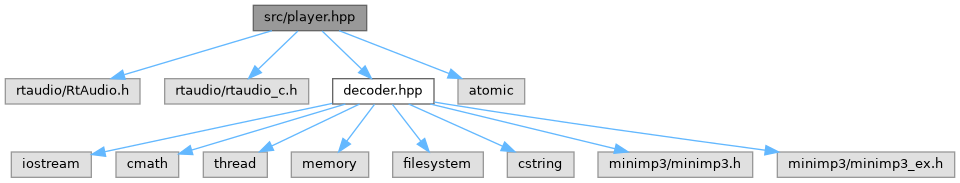
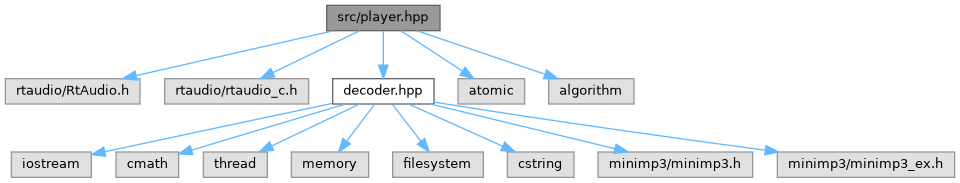
deploy: ee1bd5e4254573bf23f195d520269fd0538d9d7b

diff --git a/player_8hpp_source.html b/player_8hpp_source.html
@@ -107,49 +107,50 @@ $(document).ready(function(){initNavTree('player_8hpp_source.html',''); initResi
 <div class="line"><a id="l00012" name="l00012"></a><span class="lineno">   12</span><span class="preprocessor">#include &quot;rtaudio/rtaudio_c.h&quot;</span></div>
 <div class="line"><a id="l00013" name="l00013"></a><span class="lineno">   13</span><span class="preprocessor">#include &quot;<a class="code" href="decoder_8hpp.html">decoder.hpp</a>&quot;</span></div>
 <div class="line"><a id="l00014" name="l00014"></a><span class="lineno">   14</span><span class="preprocessor">#include &lt;atomic&gt;</span></div>
-<div class="line"><a id="l00015" name="l00015"></a><span class="lineno">   15</span> </div>
-<div class="line"><a id="l00016" name="l00016"></a><span class="lineno">   16</span><span class="preprocessor">#ifndef PLAYER_HPP</span></div>
-<div class="line"><a id="l00017" name="l00017"></a><span class="lineno">   17</span><span class="preprocessor">#define PLAYER_HPP</span></div>
-<div class="line"><a id="l00018" name="l00018"></a><span class="lineno">   18</span> </div>
-<div class="foldopen" id="foldopen00029" data-start="{" data-end="};">
-<div class="line"><a id="l00029" name="l00029"></a><span class="lineno"><a class="line" href="classPlayer.html">   29</a></span><span class="keyword">class </span><a class="code hl_class" href="classPlayer.html">Player</a> {</div>
-<div class="line"><a id="l00030" name="l00030"></a><span class="lineno">   30</span><span class="keyword">public</span>:</div>
-<div class="line"><a id="l00034" name="l00034"></a><span class="lineno">   34</span>    <span class="keyword">explicit</span> <a class="code hl_function" href="classPlayer.html#affe0cc3cb714f6deb4e62f0c0d3f1fd8">Player</a>();</div>
-<div class="line"><a id="l00035" name="l00035"></a><span class="lineno">   35</span> </div>
-<div class="line"><a id="l00040" name="l00040"></a><span class="lineno">   40</span>    <span class="keywordtype">void</span> <a class="code hl_function" href="classPlayer.html#a519dc1959e33e9d320e32e6be812b4e2">load_track</a>(<span class="keyword">const</span> track_ptr_t&amp; track);</div>
-<div class="line"><a id="l00041" name="l00041"></a><span class="lineno">   41</span> </div>
-<div class="line"><a id="l00052" name="l00052"></a><span class="lineno">   52</span>    <span class="keywordtype">void</span> <a class="code hl_function" href="classPlayer.html#aa245f322d33783fd188b30155c908321">play_track</a>();</div>
-<div class="line"><a id="l00053" name="l00053"></a><span class="lineno">   53</span>    <span class="keywordtype">void</span> raise_volume();</div>
-<div class="line"><a id="l00054" name="l00054"></a><span class="lineno">   54</span>    <span class="keywordtype">void</span> lower_volume();</div>
-<div class="line"><a id="l00055" name="l00055"></a><span class="lineno">   55</span>    <span class="keywordtype">void</span> pause_track();</div>
-<div class="line"><a id="l00056" name="l00056"></a><span class="lineno">   56</span>    <span class="keywordtype">void</span> resume_track();</div>
-<div class="line"><a id="l00057" name="l00057"></a><span class="lineno">   57</span>    [[nodiscard]] <span class="keywordtype">bool</span> is_paused() <span class="keyword">const</span>;</div>
-<div class="line"><a id="l00058" name="l00058"></a><span class="lineno">   58</span> </div>
-<div class="line"><a id="l00062" name="l00062"></a><span class="lineno">   62</span>    <span class="keywordtype">void</span> <a class="code hl_function" href="classPlayer.html#a329cba14b52751180055a0b48cf3e1b7">stop_track</a>();</div>
-<div class="line"><a id="l00063" name="l00063"></a><span class="lineno">   63</span>    <span class="keywordtype">bool</span> is_stopped() <span class="keyword">const</span>;</div>
-<div class="line"><a id="l00064" name="l00064"></a><span class="lineno">   64</span> </div>
-<div class="line"><a id="l00065" name="l00065"></a><span class="lineno">   65</span><span class="keyword">private</span>:</div>
-<div class="line"><a id="l00066" name="l00066"></a><span class="lineno">   66</span>    <span class="keyword">static</span> <span class="keywordtype">int</span> audioCallback(<span class="keywordtype">void</span> *outputBuffer, <span class="keywordtype">void</span> *, <span class="keywordtype">unsigned</span> <span class="keywordtype">int</span> nFrames,</div>
-<div class="line"><a id="l00067" name="l00067"></a><span class="lineno">   67</span>                             <span class="keywordtype">double</span>, RtAudioStreamStatus, <span class="keywordtype">void</span> *userData);</div>
-<div class="line"><a id="l00068" name="l00068"></a><span class="lineno">   68</span>    std::atomic&lt;bool&gt; stop_playback_{<span class="keyword">false</span>};</div>
-<div class="line"><a id="l00069" name="l00069"></a><span class="lineno">   69</span>    <span class="keywordtype">bool</span> paused_;</div>
-<div class="line"><a id="l00070" name="l00070"></a><span class="lineno">   70</span>    RtAudio audio_;</div>
-<div class="line"><a id="l00071" name="l00071"></a><span class="lineno">   71</span>    RtAudio::StreamParameters params_;</div>
-<div class="line"><a id="l00072" name="l00072"></a><span class="lineno">   72</span>    <span class="keywordtype">unsigned</span> <span class="keywordtype">int</span> BUFFER_SIZE = 512;</div>
-<div class="line"><a id="l00073" name="l00073"></a><span class="lineno"><a class="line" href="classPlayer.html#ad8346ce49cfc7ec7b85942017740a19d">   73</a></span>    <span class="keywordtype">unsigned</span> <span class="keywordtype">int</span> <a class="code hl_variable" href="classPlayer.html#ad8346ce49cfc7ec7b85942017740a19d">SAMPLE_RATE</a> = 44100; </div>
-<div class="line"><a id="l00074" name="l00074"></a><span class="lineno"><a class="line" href="classPlayer.html#a81c61e722d98b35ffd1ce8e51fa05d7f">   74</a></span>    <span class="keywordtype">float</span> <a class="code hl_variable" href="classPlayer.html#a81c61e722d98b35ffd1ce8e51fa05d7f">saved_volume_</a> = DEFAULT_VOLUME; </div>
-<div class="line"><a id="l00075" name="l00075"></a><span class="lineno"><a class="line" href="classPlayer.html#aa0cc47a45b17024907b4487cc43e64db">   75</a></span>    track_ptr_t <a class="code hl_variable" href="classPlayer.html#aa0cc47a45b17024907b4487cc43e64db">track_</a>; </div>
-<div class="line"><a id="l00076" name="l00076"></a><span class="lineno">   76</span>};</div>
+<div class="line"><a id="l00015" name="l00015"></a><span class="lineno">   15</span><span class="preprocessor">#include &lt;algorithm&gt;</span></div>
+<div class="line"><a id="l00016" name="l00016"></a><span class="lineno">   16</span> </div>
+<div class="line"><a id="l00017" name="l00017"></a><span class="lineno">   17</span><span class="preprocessor">#ifndef PLAYER_HPP</span></div>
+<div class="line"><a id="l00018" name="l00018"></a><span class="lineno">   18</span><span class="preprocessor">#define PLAYER_HPP</span></div>
+<div class="line"><a id="l00019" name="l00019"></a><span class="lineno">   19</span> </div>
+<div class="foldopen" id="foldopen00030" data-start="{" data-end="};">
+<div class="line"><a id="l00030" name="l00030"></a><span class="lineno"><a class="line" href="classPlayer.html">   30</a></span><span class="keyword">class </span><a class="code hl_class" href="classPlayer.html">Player</a> {</div>
+<div class="line"><a id="l00031" name="l00031"></a><span class="lineno">   31</span><span class="keyword">public</span>:</div>
+<div class="line"><a id="l00035" name="l00035"></a><span class="lineno">   35</span>    <span class="keyword">explicit</span> <a class="code hl_function" href="classPlayer.html#affe0cc3cb714f6deb4e62f0c0d3f1fd8">Player</a>();</div>
+<div class="line"><a id="l00036" name="l00036"></a><span class="lineno">   36</span> </div>
+<div class="line"><a id="l00041" name="l00041"></a><span class="lineno">   41</span>    <span class="keywordtype">void</span> <a class="code hl_function" href="classPlayer.html#a519dc1959e33e9d320e32e6be812b4e2">load_track</a>(<span class="keyword">const</span> track_ptr_t&amp; track);</div>
+<div class="line"><a id="l00042" name="l00042"></a><span class="lineno">   42</span> </div>
+<div class="line"><a id="l00053" name="l00053"></a><span class="lineno">   53</span>    <span class="keywordtype">void</span> <a class="code hl_function" href="classPlayer.html#aa245f322d33783fd188b30155c908321">play_track</a>();</div>
+<div class="line"><a id="l00054" name="l00054"></a><span class="lineno">   54</span>    <span class="keywordtype">void</span> raise_volume();</div>
+<div class="line"><a id="l00055" name="l00055"></a><span class="lineno">   55</span>    <span class="keywordtype">void</span> lower_volume();</div>
+<div class="line"><a id="l00056" name="l00056"></a><span class="lineno">   56</span>    <span class="keywordtype">void</span> pause_track();</div>
+<div class="line"><a id="l00057" name="l00057"></a><span class="lineno">   57</span>    <span class="keywordtype">void</span> resume_track();</div>
+<div class="line"><a id="l00058" name="l00058"></a><span class="lineno">   58</span>    [[nodiscard]] <span class="keywordtype">bool</span> is_paused() <span class="keyword">const</span>;</div>
+<div class="line"><a id="l00059" name="l00059"></a><span class="lineno">   59</span> </div>
+<div class="line"><a id="l00063" name="l00063"></a><span class="lineno">   63</span>    <span class="keywordtype">void</span> <a class="code hl_function" href="classPlayer.html#a329cba14b52751180055a0b48cf3e1b7">stop_track</a>();</div>
+<div class="line"><a id="l00064" name="l00064"></a><span class="lineno">   64</span>    <span class="keywordtype">bool</span> is_stopped() <span class="keyword">const</span>;</div>
+<div class="line"><a id="l00065" name="l00065"></a><span class="lineno">   65</span> </div>
+<div class="line"><a id="l00066" name="l00066"></a><span class="lineno">   66</span><span class="keyword">private</span>:</div>
+<div class="line"><a id="l00067" name="l00067"></a><span class="lineno">   67</span>    <span class="keyword">static</span> <span class="keywordtype">int</span> audioCallback(<span class="keywordtype">void</span> *outputBuffer, <span class="keywordtype">void</span> *, <span class="keywordtype">unsigned</span> <span class="keywordtype">int</span> nFrames,</div>
+<div class="line"><a id="l00068" name="l00068"></a><span class="lineno">   68</span>                             <span class="keywordtype">double</span>, RtAudioStreamStatus, <span class="keywordtype">void</span> *userData);</div>
+<div class="line"><a id="l00069" name="l00069"></a><span class="lineno">   69</span>    std::atomic&lt;bool&gt; stop_playback_{<span class="keyword">false</span>};</div>
+<div class="line"><a id="l00070" name="l00070"></a><span class="lineno">   70</span>    <span class="keywordtype">bool</span> paused_;</div>
+<div class="line"><a id="l00071" name="l00071"></a><span class="lineno">   71</span>    RtAudio audio_;</div>
+<div class="line"><a id="l00072" name="l00072"></a><span class="lineno">   72</span>    RtAudio::StreamParameters params_;</div>
+<div class="line"><a id="l00073" name="l00073"></a><span class="lineno">   73</span>    <span class="keywordtype">unsigned</span> <span class="keywordtype">int</span> BUFFER_SIZE = 512;</div>
+<div class="line"><a id="l00074" name="l00074"></a><span class="lineno"><a class="line" href="classPlayer.html#ad8346ce49cfc7ec7b85942017740a19d">   74</a></span>    <span class="keywordtype">unsigned</span> <span class="keywordtype">int</span> <a class="code hl_variable" href="classPlayer.html#ad8346ce49cfc7ec7b85942017740a19d">SAMPLE_RATE</a> = 44100; </div>
+<div class="line"><a id="l00075" name="l00075"></a><span class="lineno"><a class="line" href="classPlayer.html#a81c61e722d98b35ffd1ce8e51fa05d7f">   75</a></span>    <span class="keywordtype">float</span> <a class="code hl_variable" href="classPlayer.html#a81c61e722d98b35ffd1ce8e51fa05d7f">saved_volume_</a> = DEFAULT_VOLUME; </div>
+<div class="line"><a id="l00076" name="l00076"></a><span class="lineno"><a class="line" href="classPlayer.html#aa0cc47a45b17024907b4487cc43e64db">   76</a></span>    track_ptr_t <a class="code hl_variable" href="classPlayer.html#aa0cc47a45b17024907b4487cc43e64db">track_</a>; </div>
+<div class="line"><a id="l00077" name="l00077"></a><span class="lineno">   77</span>};</div>
 </div>
-<div class="line"><a id="l00077" name="l00077"></a><span class="lineno">   77</span> </div>
-<div class="line"><a id="l00078" name="l00078"></a><span class="lineno">   78</span><span class="preprocessor">#endif </span><span class="comment">//PLAYER_HPP</span></div>
-<div class="ttc" id="aclassPlayer_html"><div class="ttname"><a href="classPlayer.html">Player</a></div><div class="ttdoc">Manages playback of data from a Track instance.</div><div class="ttdef"><b>Definition</b> <a href="player_8hpp_source.html#l00029">player.hpp:29</a></div></div>
+<div class="line"><a id="l00078" name="l00078"></a><span class="lineno">   78</span> </div>
+<div class="line"><a id="l00079" name="l00079"></a><span class="lineno">   79</span><span class="preprocessor">#endif </span><span class="comment">//PLAYER_HPP</span></div>
+<div class="ttc" id="aclassPlayer_html"><div class="ttname"><a href="classPlayer.html">Player</a></div><div class="ttdoc">Manages playback of data from a Track instance.</div><div class="ttdef"><b>Definition</b> <a href="player_8hpp_source.html#l00030">player.hpp:30</a></div></div>
 <div class="ttc" id="aclassPlayer_html_a329cba14b52751180055a0b48cf3e1b7"><div class="ttname"><a href="classPlayer.html#a329cba14b52751180055a0b48cf3e1b7">Player::stop_track</a></div><div class="ttdeci">void stop_track()</div><div class="ttdoc">Only way to abort the execution of play_track() method from outside of Player class.</div><div class="ttdef"><b>Definition</b> <a href="player_8cpp_source.html#l00017">player.cpp:17</a></div></div>
 <div class="ttc" id="aclassPlayer_html_a519dc1959e33e9d320e32e6be812b4e2"><div class="ttname"><a href="classPlayer.html#a519dc1959e33e9d320e32e6be812b4e2">Player::load_track</a></div><div class="ttdeci">void load_track(const track_ptr_t &amp;track)</div><div class="ttdoc">Redirects local pointer to given Track instance.</div><div class="ttdef"><b>Definition</b> <a href="player_8cpp_source.html#l00046">player.cpp:46</a></div></div>
-<div class="ttc" id="aclassPlayer_html_a81c61e722d98b35ffd1ce8e51fa05d7f"><div class="ttname"><a href="classPlayer.html#a81c61e722d98b35ffd1ce8e51fa05d7f">Player::saved_volume_</a></div><div class="ttdeci">float saved_volume_</div><div class="ttdoc">Saves volume modifier when switching between tracks.</div><div class="ttdef"><b>Definition</b> <a href="player_8hpp_source.html#l00074">player.hpp:74</a></div></div>
-<div class="ttc" id="aclassPlayer_html_aa0cc47a45b17024907b4487cc43e64db"><div class="ttname"><a href="classPlayer.html#aa0cc47a45b17024907b4487cc43e64db">Player::track_</a></div><div class="ttdeci">track_ptr_t track_</div><div class="ttdoc">Current Track in playback or ready to be played.</div><div class="ttdef"><b>Definition</b> <a href="player_8hpp_source.html#l00075">player.hpp:75</a></div></div>
+<div class="ttc" id="aclassPlayer_html_a81c61e722d98b35ffd1ce8e51fa05d7f"><div class="ttname"><a href="classPlayer.html#a81c61e722d98b35ffd1ce8e51fa05d7f">Player::saved_volume_</a></div><div class="ttdeci">float saved_volume_</div><div class="ttdoc">Saves volume modifier when switching between tracks.</div><div class="ttdef"><b>Definition</b> <a href="player_8hpp_source.html#l00075">player.hpp:75</a></div></div>
+<div class="ttc" id="aclassPlayer_html_aa0cc47a45b17024907b4487cc43e64db"><div class="ttname"><a href="classPlayer.html#aa0cc47a45b17024907b4487cc43e64db">Player::track_</a></div><div class="ttdeci">track_ptr_t track_</div><div class="ttdoc">Current Track in playback or ready to be played.</div><div class="ttdef"><b>Definition</b> <a href="player_8hpp_source.html#l00076">player.hpp:76</a></div></div>
 <div class="ttc" id="aclassPlayer_html_aa245f322d33783fd188b30155c908321"><div class="ttname"><a href="classPlayer.html#aa245f322d33783fd188b30155c908321">Player::play_track</a></div><div class="ttdeci">void play_track()</div><div class="ttdoc">Starts track playback.</div><div class="ttdef"><b>Definition</b> <a href="player_8cpp_source.html#l00072">player.cpp:72</a></div></div>
-<div class="ttc" id="aclassPlayer_html_ad8346ce49cfc7ec7b85942017740a19d"><div class="ttname"><a href="classPlayer.html#ad8346ce49cfc7ec7b85942017740a19d">Player::SAMPLE_RATE</a></div><div class="ttdeci">unsigned int SAMPLE_RATE</div><div class="ttdoc">Audio sample rate in Hz.</div><div class="ttdef"><b>Definition</b> <a href="player_8hpp_source.html#l00073">player.hpp:73</a></div></div>
+<div class="ttc" id="aclassPlayer_html_ad8346ce49cfc7ec7b85942017740a19d"><div class="ttname"><a href="classPlayer.html#ad8346ce49cfc7ec7b85942017740a19d">Player::SAMPLE_RATE</a></div><div class="ttdeci">unsigned int SAMPLE_RATE</div><div class="ttdoc">Audio sample rate in Hz.</div><div class="ttdef"><b>Definition</b> <a href="player_8hpp_source.html#l00074">player.hpp:74</a></div></div>
 <div class="ttc" id="aclassPlayer_html_affe0cc3cb714f6deb4e62f0c0d3f1fd8"><div class="ttname"><a href="classPlayer.html#affe0cc3cb714f6deb4e62f0c0d3f1fd8">Player::Player</a></div><div class="ttdeci">Player()</div><div class="ttdoc">Constructs a new Player instance and initializes audio system.</div><div class="ttdef"><b>Definition</b> <a href="player_8cpp_source.html#l00006">player.cpp:6</a></div></div>
 <div class="ttc" id="adecoder_8hpp_html"><div class="ttname"><a href="decoder_8hpp.html">decoder.hpp</a></div><div class="ttdoc">Contains classes and structures for decoding MP3 files into PCM audio data.</div></div>
 </div><!-- fragment --></div><!-- contents -->

diff --git a/classPlayer.html b/classPlayer.html
@@ -172,7 +172,7 @@ Private Attributes</h2></td></tr>
 <li>Stopped - playback aborts and <a class="el" href="classPlayer.html" title="Manages playback of data from a Track instance.">Player</a> returns to the initial state </li>
 </ul>
 
-<p class="definition">Definition at line <a class="el" href="player_8hpp_source.html#l00029">29</a> of file <a class="el" href="player_8hpp_source.html">player.hpp</a>.</p>
+<p class="definition">Definition at line <a class="el" href="player_8hpp_source.html#l00030">30</a> of file <a class="el" href="player_8hpp_source.html">player.hpp</a>.</p>
 </div><h2 class="groupheader">Constructor &amp; Destructor Documentation</h2>
 <a id="affe0cc3cb714f6deb4e62f0c0d3f1fd8" name="affe0cc3cb714f6deb4e62f0c0d3f1fd8"></a>
 <h2 class="memtitle"><span class="permalink"><a href="#affe0cc3cb714f6deb4e62f0c0d3f1fd8">&#9670;&#160;</a></span>Player()</h2>
@@ -370,7 +370,7 @@ Private Attributes</h2></td></tr>
 <div class="line"><span class="lineno">   48</span>    <a class="code hl_variable" href="classPlayer.html#aa0cc47a45b17024907b4487cc43e64db">track_</a> = track;</div>
 <div class="line"><span class="lineno">   49</span>    paused_ = <span class="keyword">false</span>;</div>
 <div class="line"><span class="lineno">   50</span>}</div>
-<div class="ttc" id="aclassPlayer_html_aa0cc47a45b17024907b4487cc43e64db"><div class="ttname"><a href="classPlayer.html#aa0cc47a45b17024907b4487cc43e64db">Player::track_</a></div><div class="ttdeci">track_ptr_t track_</div><div class="ttdoc">Current Track in playback or ready to be played.</div><div class="ttdef"><b>Definition</b> <a href="player_8hpp_source.html#l00075">player.hpp:75</a></div></div>
+<div class="ttc" id="aclassPlayer_html_aa0cc47a45b17024907b4487cc43e64db"><div class="ttname"><a href="classPlayer.html#aa0cc47a45b17024907b4487cc43e64db">Player::track_</a></div><div class="ttdeci">track_ptr_t track_</div><div class="ttdoc">Current Track in playback or ready to be played.</div><div class="ttdef"><b>Definition</b> <a href="player_8hpp_source.html#l00076">player.hpp:76</a></div></div>
 </div><!-- fragment -->
 </div>
 </div>
@@ -398,7 +398,7 @@ Private Attributes</h2></td></tr>
 <div class="line"><span class="lineno">   67</span>        <a class="code hl_variable" href="classPlayer.html#a81c61e722d98b35ffd1ce8e51fa05d7f">saved_volume_</a> = audio_data.volume;</div>
 <div class="line"><span class="lineno">   68</span>    }</div>
 <div class="line"><span class="lineno">   69</span>}</div>
-<div class="ttc" id="aclassPlayer_html_a81c61e722d98b35ffd1ce8e51fa05d7f"><div class="ttname"><a href="classPlayer.html#a81c61e722d98b35ffd1ce8e51fa05d7f">Player::saved_volume_</a></div><div class="ttdeci">float saved_volume_</div><div class="ttdoc">Saves volume modifier when switching between tracks.</div><div class="ttdef"><b>Definition</b> <a href="player_8hpp_source.html#l00074">player.hpp:74</a></div></div>
+<div class="ttc" id="aclassPlayer_html_a81c61e722d98b35ffd1ce8e51fa05d7f"><div class="ttname"><a href="classPlayer.html#a81c61e722d98b35ffd1ce8e51fa05d7f">Player::saved_volume_</a></div><div class="ttdeci">float saved_volume_</div><div class="ttdoc">Saves volume modifier when switching between tracks.</div><div class="ttdef"><b>Definition</b> <a href="player_8hpp_source.html#l00075">player.hpp:75</a></div></div>
 </div><!-- fragment -->
 </div>
 </div>
@@ -491,7 +491,7 @@ First call <a class="el" href="classPlayer.html#a519dc1959e33e9d320e32e6be812b4e
 <div class="line"><span class="lineno">  115</span>        <span class="keywordflow">if</span> (audio_.isStreamOpen()) audio_.closeStream();</div>
 <div class="line"><span class="lineno">  116</span>    }</div>
 <div class="line"><span class="lineno">  117</span>}</div>
-<div class="ttc" id="aclassPlayer_html_ad8346ce49cfc7ec7b85942017740a19d"><div class="ttname"><a href="classPlayer.html#ad8346ce49cfc7ec7b85942017740a19d">Player::SAMPLE_RATE</a></div><div class="ttdeci">unsigned int SAMPLE_RATE</div><div class="ttdoc">Audio sample rate in Hz.</div><div class="ttdef"><b>Definition</b> <a href="player_8hpp_source.html#l00073">player.hpp:73</a></div></div>
+<div class="ttc" id="aclassPlayer_html_ad8346ce49cfc7ec7b85942017740a19d"><div class="ttname"><a href="classPlayer.html#ad8346ce49cfc7ec7b85942017740a19d">Player::SAMPLE_RATE</a></div><div class="ttdeci">unsigned int SAMPLE_RATE</div><div class="ttdoc">Audio sample rate in Hz.</div><div class="ttdef"><b>Definition</b> <a href="player_8hpp_source.html#l00074">player.hpp:74</a></div></div>
 <div class="ttc" id="astructAudioData_html_a9bf6bf45bec8283c4272cd588dc642ce"><div class="ttname"><a href="structAudioData.html#a9bf6bf45bec8283c4272cd588dc642ce">AudioData::current_sample</a></div><div class="ttdeci">size_t current_sample</div><div class="ttdoc">Current position during playback.</div><div class="ttdef"><b>Definition</b> <a href="decoder_8hpp_source.html#l00035">decoder.hpp:35</a></div></div>
 <div class="ttc" id="astructTrackInfo_html"><div class="ttname"><a href="structTrackInfo.html">TrackInfo</a></div><div class="ttdoc">Couples together playback and context information for a specific track.</div><div class="ttdef"><b>Definition</b> <a href="decoder_8hpp_source.html#l00055">decoder.hpp:55</a></div></div>
 </div><!-- fragment -->
@@ -593,7 +593,7 @@ First call <a class="el" href="classPlayer.html#a519dc1959e33e9d320e32e6be812b4e
 </table>
 </div><div class="memdoc">
 
-<p class="definition">Definition at line <a class="el" href="player_8hpp_source.html#l00070">70</a> of file <a class="el" href="player_8hpp_source.html">player.hpp</a>.</p>
+<p class="definition">Definition at line <a class="el" href="player_8hpp_source.html#l00071">71</a> of file <a class="el" href="player_8hpp_source.html">player.hpp</a>.</p>
 
 </div>
 </div>
@@ -617,7 +617,7 @@ First call <a class="el" href="classPlayer.html#a519dc1959e33e9d320e32e6be812b4e
 </table>
 </div><div class="memdoc">
 
-<p class="definition">Definition at line <a class="el" href="player_8hpp_source.html#l00072">72</a> of file <a class="el" href="player_8hpp_source.html">player.hpp</a>.</p>
+<p class="definition">Definition at line <a class="el" href="player_8hpp_source.html#l00073">73</a> of file <a class="el" href="player_8hpp_source.html">player.hpp</a>.</p>
 
 </div>
 </div>
@@ -641,7 +641,7 @@ First call <a class="el" href="classPlayer.html#a519dc1959e33e9d320e32e6be812b4e
 </table>
 </div><div class="memdoc">
 
-<p class="definition">Definition at line <a class="el" href="player_8hpp_source.html#l00071">71</a> of file <a class="el" href="player_8hpp_source.html">player.hpp</a>.</p>
+<p class="definition">Definition at line <a class="el" href="player_8hpp_source.html#l00072">72</a> of file <a class="el" href="player_8hpp_source.html">player.hpp</a>.</p>
 
 </div>
 </div>
@@ -665,7 +665,7 @@ First call <a class="el" href="classPlayer.html#a519dc1959e33e9d320e32e6be812b4e
 </table>
 </div><div class="memdoc">
 
-<p class="definition">Definition at line <a class="el" href="player_8hpp_source.html#l00069">69</a> of file <a class="el" href="player_8hpp_source.html">player.hpp</a>.</p>
+<p class="definition">Definition at line <a class="el" href="player_8hpp_source.html#l00070">70</a> of file <a class="el" href="player_8hpp_source.html">player.hpp</a>.</p>
 
 </div>
 </div>
@@ -691,7 +691,7 @@ First call <a class="el" href="classPlayer.html#a519dc1959e33e9d320e32e6be812b4e
 
 <p>Audio sample rate in Hz. </p>
 
-<p class="definition">Definition at line <a class="el" href="player_8hpp_source.html#l00073">73</a> of file <a class="el" href="player_8hpp_source.html">player.hpp</a>.</p>
+<p class="definition">Definition at line <a class="el" href="player_8hpp_source.html#l00074">74</a> of file <a class="el" href="player_8hpp_source.html">player.hpp</a>.</p>
 
 </div>
 </div>
@@ -717,7 +717,7 @@ First call <a class="el" href="classPlayer.html#a519dc1959e33e9d320e32e6be812b4e
 
 <p>Saves volume modifier when switching between tracks. </p>
 
-<p class="definition">Definition at line <a class="el" href="player_8hpp_source.html#l00074">74</a> of file <a class="el" href="player_8hpp_source.html">player.hpp</a>.</p>
+<p class="definition">Definition at line <a class="el" href="player_8hpp_source.html#l00075">75</a> of file <a class="el" href="player_8hpp_source.html">player.hpp</a>.</p>
 
 </div>
 </div>
@@ -741,8 +741,8 @@ First call <a class="el" href="classPlayer.html#a519dc1959e33e9d320e32e6be812b4e
 </table>
 </div><div class="memdoc">
 
-<p class="definition">Definition at line <a class="el" href="player_8hpp_source.html#l00068">68</a> of file <a class="el" href="player_8hpp_source.html">player.hpp</a>.</p>
-<div class="fragment"><div class="line"><span class="lineno">   68</span>{<span class="keyword">false</span>};</div>
+<p class="definition">Definition at line <a class="el" href="player_8hpp_source.html#l00069">69</a> of file <a class="el" href="player_8hpp_source.html">player.hpp</a>.</p>
+<div class="fragment"><div class="line"><span class="lineno">   69</span>{<span class="keyword">false</span>};</div>
 </div><!-- fragment -->
 </div>
 </div>
@@ -768,7 +768,7 @@ First call <a class="el" href="classPlayer.html#a519dc1959e33e9d320e32e6be812b4e
 
 <p>Current Track in playback or ready to be played. </p>
 
-<p class="definition">Definition at line <a class="el" href="player_8hpp_source.html#l00075">75</a> of file <a class="el" href="player_8hpp_source.html">player.hpp</a>.</p>
+<p class="definition">Definition at line <a class="el" href="player_8hpp_source.html#l00076">76</a> of file <a class="el" href="player_8hpp_source.html">player.hpp</a>.</p>
 
 </div>
 </div>

diff --git a/ui__controller_8hpp.html b/ui__controller_8hpp.html
@@ -118,51 +118,53 @@ Include dependency graph for ui_controller.hpp:</div>
 <div class="dyncontent">
 <div class="center"><img src="ui__controller_8hpp__incl.png" border="0" usemap="#asrc_2ui__controller_8hpp" alt=""/></div>
 <map name="asrc_2ui__controller_8hpp" id="asrc_2ui__controller_8hpp">
-<area shape="rect" title="Defines class and constants regarding user interface core logic." alt="" coords="294,5,447,31"/>
-<area shape="rect" href="decoder_8hpp.html" title="Contains classes and structures for decoding MP3 files into PCM audio data." alt="" coords="505,152,607,177"/>
-<area shape="poly" title=" " alt="" coords="387,29,532,141,529,145,384,33"/>
-<area shape="rect" title=" " alt="" coords="123,225,187,251"/>
-<area shape="poly" title=" " alt="" coords="294,31,236,45,176,69,147,85,120,104,97,127,78,153,75,171,83,188,100,203,120,217,117,221,96,207,79,191,70,172,74,151,93,123,117,100,144,80,173,64,235,40,293,26"/>
-<area shape="rect" title=" " alt="" coords="5,225,96,251"/>
-<area shape="poly" title=" " alt="" coords="294,25,251,30,204,41,158,57,116,81,89,109,72,144,61,180,55,212,50,211,56,179,67,142,85,106,113,77,156,52,203,36,250,25,294,19"/>
-<area shape="rect" href="player_8hpp.html" title=" " alt="" coords="653,79,744,104"/>
-<area shape="poly" title=" " alt="" coords="424,28,640,75,639,80,423,33"/>
-<area shape="rect" href="ui__renderer_8hpp.html" title="Defines class handling UI window rendering specifics." alt="" coords="211,79,333,104"/>
-<area shape="poly" title=" " alt="" coords="356,33,301,73,298,68,353,29"/>
-<area shape="rect" title=" " alt="" coords="310,152,394,177"/>
-<area shape="poly" title=" " alt="" coords="372,31,358,139,353,138,366,31"/>
-<area shape="rect" title=" " alt="" coords="418,152,481,177"/>
-<area shape="poly" title=" " alt="" coords="379,30,439,139,434,141,375,32"/>
-<area shape="rect" title=" " alt="" coords="516,225,596,251"/>
-<area shape="poly" title=" " alt="" coords="559,178,559,212,553,212,553,178"/>
-<area shape="rect" title=" " alt="" coords="621,225,683,251"/>
-<area shape="poly" title=" " alt="" coords="573,175,627,215,624,219,570,180"/>
-<area shape="poly" title=" " alt="" coords="505,178,492,180,346,202,201,228,200,228,199,223,199,223,345,197,492,175,505,172"/>
-<area shape="rect" title=" " alt="" coords="212,225,289,251"/>
-<area shape="poly" title=" " alt="" coords="508,180,303,227,302,222,506,175"/>
-<area shape="poly" title=" " alt="" coords="505,178,492,180,302,204,111,228,110,228,109,223,110,223,301,198,492,175,505,173"/>
-<area shape="rect" title=" " alt="" coords="708,225,775,251"/>
-<area shape="poly" title=" " alt="" coords="587,175,699,218,698,223,585,180"/>
-<area shape="rect" title=" " alt="" coords="799,225,953,251"/>
-<area shape="poly" title=" " alt="" coords="607,175,812,220,811,225,606,180"/>
-<area shape="rect" title=" " alt="" coords="314,225,491,251"/>
-<area shape="poly" title=" " alt="" coords="532,180,441,222,439,217,530,175"/>
-<area shape="poly" title=" " alt="" coords="677,106,593,148,590,143,675,102"/>
-<area shape="rect" title=" " alt="" coords="631,152,766,177"/>
-<area shape="poly" title=" " alt="" coords="701,104,701,138,696,138,696,104"/>
-<area shape="rect" title=" " alt="" coords="791,152,935,177"/>
-<area shape="poly" title=" " alt="" coords="726,102,825,144,822,149,724,106"/>
-<area shape="rect" title=" " alt="" coords="959,152,1025,177"/>
-<area shape="poly" title=" " alt="" coords="745,101,946,149,945,154,744,106"/>
-<area shape="poly" title=" " alt="" coords="318,101,498,146,496,151,317,107"/>
-<area shape="poly" title=" " alt="" coords="273,105,257,212,252,211,268,104"/>
-<area shape="poly" title=" " alt="" coords="211,99,177,105,141,116,107,131,78,154,68,167,61,182,55,212,49,211,56,180,64,164,74,150,104,127,139,111,176,100,210,94"/>
-<area shape="poly" title=" " alt="" coords="287,102,331,141,327,145,283,106"/>
-<area shape="rect" title=" " alt="" coords="88,152,147,177"/>
-<area shape="poly" title=" " alt="" coords="248,106,156,149,154,144,246,102"/>
-<area shape="rect" title=" " alt="" coords="171,152,234,177"/>
-<area shape="poly" title=" " alt="" coords="262,106,225,144,221,140,259,102"/>
-<area shape="poly" title=" " alt="" coords="301,102,409,144,407,149,300,106"/>
+<area shape="rect" title="Defines class and constants regarding user interface core logic." alt="" coords="753,5,906,31"/>
+<area shape="rect" href="decoder_8hpp.html" title="Contains classes and structures for decoding MP3 files into PCM audio data." alt="" coords="552,152,653,177"/>
+<area shape="poly" title=" " alt="" coords="813,33,634,147,631,142,810,29"/>
+<area shape="rect" title=" " alt="" coords="12,225,76,251"/>
+<area shape="poly" title=" " alt="" coords="753,22,572,27,461,35,347,46,238,63,141,86,99,100,64,116,35,134,14,154,9,167,10,182,27,213,22,216,5,184,3,167,10,150,32,130,61,111,97,95,140,81,237,58,347,41,461,29,571,22,753,17"/>
+<area shape="rect" title=" " alt="" coords="881,225,972,251"/>
+<area shape="poly" title=" " alt="" coords="907,26,966,40,1030,64,1061,80,1089,100,1115,123,1136,151,1143,172,1138,190,1124,204,1102,215,1045,229,986,237,985,231,1044,224,1100,210,1121,199,1134,187,1138,172,1131,153,1111,127,1086,104,1058,85,1028,69,965,45,906,31"/>
+<area shape="rect" href="player_8hpp.html" title=" " alt="" coords="347,79,437,104"/>
+<area shape="poly" title=" " alt="" coords="760,33,452,83,451,78,759,28"/>
+<area shape="rect" href="ui__renderer_8hpp.html" title="Defines class handling UI window rendering specifics." alt="" coords="768,79,891,104"/>
+<area shape="poly" title=" " alt="" coords="832,31,832,65,827,65,827,31"/>
+<area shape="rect" title=" " alt="" coords="950,152,1034,177"/>
+<area shape="poly" title=" " alt="" coords="846,29,905,77,972,140,968,144,901,81,843,33"/>
+<area shape="rect" title=" " alt="" coords="1058,152,1121,177"/>
+<area shape="poly" title=" " alt="" coords="852,29,1058,143,1056,148,849,33"/>
+<area shape="rect" title=" " alt="" coords="676,225,756,251"/>
+<area shape="poly" title=" " alt="" coords="622,175,688,216,685,220,620,180"/>
+<area shape="rect" title=" " alt="" coords="117,225,179,251"/>
+<area shape="poly" title=" " alt="" coords="552,178,540,180,369,202,292,211,193,228,193,223,291,206,368,196,540,175,551,173"/>
+<area shape="poly" title=" " alt="" coords="552,178,540,180,418,195,322,204,227,212,104,228,90,230,89,225,104,223,226,207,322,198,417,190,540,175,551,173"/>
+<area shape="rect" title=" " alt="" coords="780,225,857,251"/>
+<area shape="poly" title=" " alt="" coords="638,175,772,218,770,223,637,180"/>
+<area shape="poly" title=" " alt="" coords="654,175,869,221,867,226,653,180"/>
+<area shape="rect" title=" " alt="" coords="204,225,271,251"/>
+<area shape="poly" title=" " alt="" coords="552,178,285,228,284,223,551,173"/>
+<area shape="rect" title=" " alt="" coords="295,225,449,251"/>
+<area shape="poly" title=" " alt="" coords="566,180,423,224,421,219,565,175"/>
+<area shape="rect" title=" " alt="" coords="474,225,651,251"/>
+<area shape="poly" title=" " alt="" coords="598,179,578,215,574,212,594,176"/>
+<area shape="poly" title=" " alt="" coords="427,101,557,145,555,150,425,107"/>
+<area shape="rect" title=" " alt="" coords="393,152,527,177"/>
+<area shape="poly" title=" " alt="" coords="405,102,441,140,438,144,401,106"/>
+<area shape="rect" title=" " alt="" coords="24,152,168,177"/>
+<area shape="poly" title=" " alt="" coords="347,106,157,151,156,146,346,101"/>
+<area shape="rect" title=" " alt="" coords="192,152,259,177"/>
+<area shape="poly" title=" " alt="" coords="366,106,266,149,264,144,364,102"/>
+<area shape="rect" title=" " alt="" coords="283,152,368,177"/>
+<area shape="poly" title=" " alt="" coords="383,106,348,144,344,140,379,103"/>
+<area shape="poly" title=" " alt="" coords="794,107,653,150,652,145,792,101"/>
+<area shape="poly" title=" " alt="" coords="827,105,813,152,812,183,816,212,811,212,807,183,808,152,822,103"/>
+<area shape="poly" title=" " alt="" coords="833,104,840,138,857,176,876,197,897,215,894,219,872,201,853,179,835,140,828,105"/>
+<area shape="poly" title=" " alt="" coords="857,102,954,144,952,149,855,106"/>
+<area shape="rect" title=" " alt="" coords="867,152,925,177"/>
+<area shape="poly" title=" " alt="" coords="842,103,878,140,874,144,838,106"/>
+<area shape="rect" title=" " alt="" coords="678,152,741,177"/>
+<area shape="poly" title=" " alt="" coords="812,106,742,147,740,142,809,102"/>
+<area shape="poly" title=" " alt="" coords="872,101,1046,149,1044,154,871,107"/>
 </map>
 </div>
 </div><div class="textblock"><div class="dynheader">

diff --git a/player_8cpp_source.html b/player_8cpp_source.html
@@ -248,10 +248,10 @@ $(document).ready(function(){initNavTree('player_8cpp_source.html',''); initResi
 <div class="line"><a id="l00139" name="l00139"></a><span class="lineno">  139</span>}</div>
 <div class="ttc" id="aclassPlayer_html_a329cba14b52751180055a0b48cf3e1b7"><div class="ttname"><a href="classPlayer.html#a329cba14b52751180055a0b48cf3e1b7">Player::stop_track</a></div><div class="ttdeci">void stop_track()</div><div class="ttdoc">Only way to abort the execution of play_track() method from outside of Player class.</div><div class="ttdef"><b>Definition</b> <a href="player_8cpp_source.html#l00017">player.cpp:17</a></div></div>
 <div class="ttc" id="aclassPlayer_html_a519dc1959e33e9d320e32e6be812b4e2"><div class="ttname"><a href="classPlayer.html#a519dc1959e33e9d320e32e6be812b4e2">Player::load_track</a></div><div class="ttdeci">void load_track(const track_ptr_t &amp;track)</div><div class="ttdoc">Redirects local pointer to given Track instance.</div><div class="ttdef"><b>Definition</b> <a href="player_8cpp_source.html#l00046">player.cpp:46</a></div></div>
-<div class="ttc" id="aclassPlayer_html_a81c61e722d98b35ffd1ce8e51fa05d7f"><div class="ttname"><a href="classPlayer.html#a81c61e722d98b35ffd1ce8e51fa05d7f">Player::saved_volume_</a></div><div class="ttdeci">float saved_volume_</div><div class="ttdoc">Saves volume modifier when switching between tracks.</div><div class="ttdef"><b>Definition</b> <a href="player_8hpp_source.html#l00074">player.hpp:74</a></div></div>
-<div class="ttc" id="aclassPlayer_html_aa0cc47a45b17024907b4487cc43e64db"><div class="ttname"><a href="classPlayer.html#aa0cc47a45b17024907b4487cc43e64db">Player::track_</a></div><div class="ttdeci">track_ptr_t track_</div><div class="ttdoc">Current Track in playback or ready to be played.</div><div class="ttdef"><b>Definition</b> <a href="player_8hpp_source.html#l00075">player.hpp:75</a></div></div>
+<div class="ttc" id="aclassPlayer_html_a81c61e722d98b35ffd1ce8e51fa05d7f"><div class="ttname"><a href="classPlayer.html#a81c61e722d98b35ffd1ce8e51fa05d7f">Player::saved_volume_</a></div><div class="ttdeci">float saved_volume_</div><div class="ttdoc">Saves volume modifier when switching between tracks.</div><div class="ttdef"><b>Definition</b> <a href="player_8hpp_source.html#l00075">player.hpp:75</a></div></div>
+<div class="ttc" id="aclassPlayer_html_aa0cc47a45b17024907b4487cc43e64db"><div class="ttname"><a href="classPlayer.html#aa0cc47a45b17024907b4487cc43e64db">Player::track_</a></div><div class="ttdeci">track_ptr_t track_</div><div class="ttdoc">Current Track in playback or ready to be played.</div><div class="ttdef"><b>Definition</b> <a href="player_8hpp_source.html#l00076">player.hpp:76</a></div></div>
 <div class="ttc" id="aclassPlayer_html_aa245f322d33783fd188b30155c908321"><div class="ttname"><a href="classPlayer.html#aa245f322d33783fd188b30155c908321">Player::play_track</a></div><div class="ttdeci">void play_track()</div><div class="ttdoc">Starts track playback.</div><div class="ttdef"><b>Definition</b> <a href="player_8cpp_source.html#l00072">player.cpp:72</a></div></div>
-<div class="ttc" id="aclassPlayer_html_ad8346ce49cfc7ec7b85942017740a19d"><div class="ttname"><a href="classPlayer.html#ad8346ce49cfc7ec7b85942017740a19d">Player::SAMPLE_RATE</a></div><div class="ttdeci">unsigned int SAMPLE_RATE</div><div class="ttdoc">Audio sample rate in Hz.</div><div class="ttdef"><b>Definition</b> <a href="player_8hpp_source.html#l00073">player.hpp:73</a></div></div>
+<div class="ttc" id="aclassPlayer_html_ad8346ce49cfc7ec7b85942017740a19d"><div class="ttname"><a href="classPlayer.html#ad8346ce49cfc7ec7b85942017740a19d">Player::SAMPLE_RATE</a></div><div class="ttdeci">unsigned int SAMPLE_RATE</div><div class="ttdoc">Audio sample rate in Hz.</div><div class="ttdef"><b>Definition</b> <a href="player_8hpp_source.html#l00074">player.hpp:74</a></div></div>
 <div class="ttc" id="aclassPlayer_html_affe0cc3cb714f6deb4e62f0c0d3f1fd8"><div class="ttname"><a href="classPlayer.html#affe0cc3cb714f6deb4e62f0c0d3f1fd8">Player::Player</a></div><div class="ttdeci">Player()</div><div class="ttdoc">Constructs a new Player instance and initializes audio system.</div><div class="ttdef"><b>Definition</b> <a href="player_8cpp_source.html#l00006">player.cpp:6</a></div></div>
 <div class="ttc" id="aplayer_8hpp_html"><div class="ttname"><a href="player_8hpp.html">player.hpp</a></div></div>
 <div class="ttc" id="astructAudioData_html"><div class="ttname"><a href="structAudioData.html">AudioData</a></div><div class="ttdoc">Contains PCM audio samples and playback-related data.</div><div class="ttdef"><b>Definition</b> <a href="decoder_8hpp_source.html#l00032">decoder.hpp:32</a></div></div>

diff --git a/ui__controller_8hpp_source.html b/ui__controller_8hpp_source.html
@@ -154,7 +154,7 @@ $(document).ready(function(){initNavTree('ui__controller_8hpp_source.html',''); 
 </div>
 <div class="line"><a id="l00084" name="l00084"></a><span class="lineno">   84</span><span class="preprocessor">#endif </span><span class="comment">//UICONTROLLER_HPP</span></div>
 <div class="ttc" id="aclassDecoder_html"><div class="ttname"><a href="classDecoder.html">Decoder</a></div><div class="ttdoc">Transforms valid file into PCM data and all necessary parameters for audio playback.</div><div class="ttdef"><b>Definition</b> <a href="decoder_8hpp_source.html#l00068">decoder.hpp:68</a></div></div>
-<div class="ttc" id="aclassPlayer_html"><div class="ttname"><a href="classPlayer.html">Player</a></div><div class="ttdoc">Manages playback of data from a Track instance.</div><div class="ttdef"><b>Definition</b> <a href="player_8hpp_source.html#l00029">player.hpp:29</a></div></div>
+<div class="ttc" id="aclassPlayer_html"><div class="ttname"><a href="classPlayer.html">Player</a></div><div class="ttdoc">Manages playback of data from a Track instance.</div><div class="ttdef"><b>Definition</b> <a href="player_8hpp_source.html#l00030">player.hpp:30</a></div></div>
 <div class="ttc" id="aclassUiController_html"><div class="ttname"><a href="classUiController.html">UiController</a></div><div class="ttdoc">Takes care of user input handling and interaction between program components.</div><div class="ttdef"><b>Definition</b> <a href="ui__controller_8hpp_source.html#l00044">ui_controller.hpp:44</a></div></div>
 <div class="ttc" id="aclassUiController_html_a04c3a9d240f8ae78f2a36cc03d72dc3e"><div class="ttname"><a href="classUiController.html#a04c3a9d240f8ae78f2a36cc03d72dc3e">UiController::dec_</a></div><div class="ttdeci">Decoder dec_</div><div class="ttdoc">Decoder instance for creating Track objects.</div><div class="ttdef"><b>Definition</b> <a href="ui__controller_8hpp_source.html#l00073">ui_controller.hpp:73</a></div></div>
 <div class="ttc" id="aclassUiController_html_a06c688233d464fc707a4e237107c209d"><div class="ttname"><a href="classUiController.html#a06c688233d464fc707a4e237107c209d">UiController::ui_</a></div><div class="ttdeci">UiRenderer ui_</div><div class="ttdoc">Helper renderer instance that separates concern for ncurses rendering.</div><div class="ttdef"><b>Definition</b> <a href="ui__controller_8hpp_source.html#l00075">ui_controller.hpp:75</a></div></div>

diff --git a/player_8hpp.html b/player_8hpp.html
@@ -105,20 +105,23 @@ $(document).ready(function(){initNavTree('player_8hpp.html',''); initResizable()
 <code>#include &quot;rtaudio/rtaudio_c.h&quot;</code><br />
 <code>#include &quot;<a class="el" href="decoder_8hpp_source.html">decoder.hpp</a>&quot;</code><br />
 <code>#include &lt;atomic&gt;</code><br />
+<code>#include &lt;algorithm&gt;</code><br />
 </div><div class="textblock"><div class="dynheader">
 Include dependency graph for player.hpp:</div>
 <div class="dyncontent">
 <div class="center"><img src="player_8hpp__incl.png" border="0" usemap="#asrc_2player_8hpp" alt=""/></div>
 <map name="asrc_2player_8hpp" id="asrc_2player_8hpp">
-<area shape="rect" title=" " alt="" coords="253,5,367,31"/>
+<area shape="rect" title=" " alt="" coords="327,5,440,31"/>
 <area shape="rect" title=" " alt="" coords="5,79,140,104"/>
-<area shape="poly" title=" " alt="" coords="273,33,125,77,123,72,271,28"/>
+<area shape="poly" title=" " alt="" coords="334,33,137,78,135,73,333,28"/>
 <area shape="rect" title=" " alt="" coords="165,79,309,104"/>
-<area shape="poly" title=" " alt="" coords="300,33,260,71,257,67,296,29"/>
+<area shape="poly" title=" " alt="" coords="361,33,274,75,272,70,359,28"/>
 <area shape="rect" href="decoder_8hpp.html" title="Contains classes and structures for decoding MP3 files into PCM audio data." alt="" coords="333,79,434,104"/>
-<area shape="poly" title=" " alt="" coords="324,29,363,67,360,71,320,33"/>
+<area shape="poly" title=" " alt="" coords="386,31,386,65,381,65,381,31"/>
 <area shape="rect" title=" " alt="" coords="458,79,525,104"/>
-<area shape="poly" title=" " alt="" coords="340,28,450,71,448,76,338,33"/>
+<area shape="poly" title=" " alt="" coords="402,28,464,69,461,73,399,33"/>
+<area shape="rect" title=" " alt="" coords="549,79,634,104"/>
+<area shape="poly" title=" " alt="" coords="418,28,545,72,544,77,416,33"/>
 <area shape="rect" title=" " alt="" coords="11,152,91,177"/>
 <area shape="poly" title=" " alt="" coords="333,106,106,154,105,149,332,101"/>
 <area shape="rect" title=" " alt="" coords="116,152,179,177"/>
